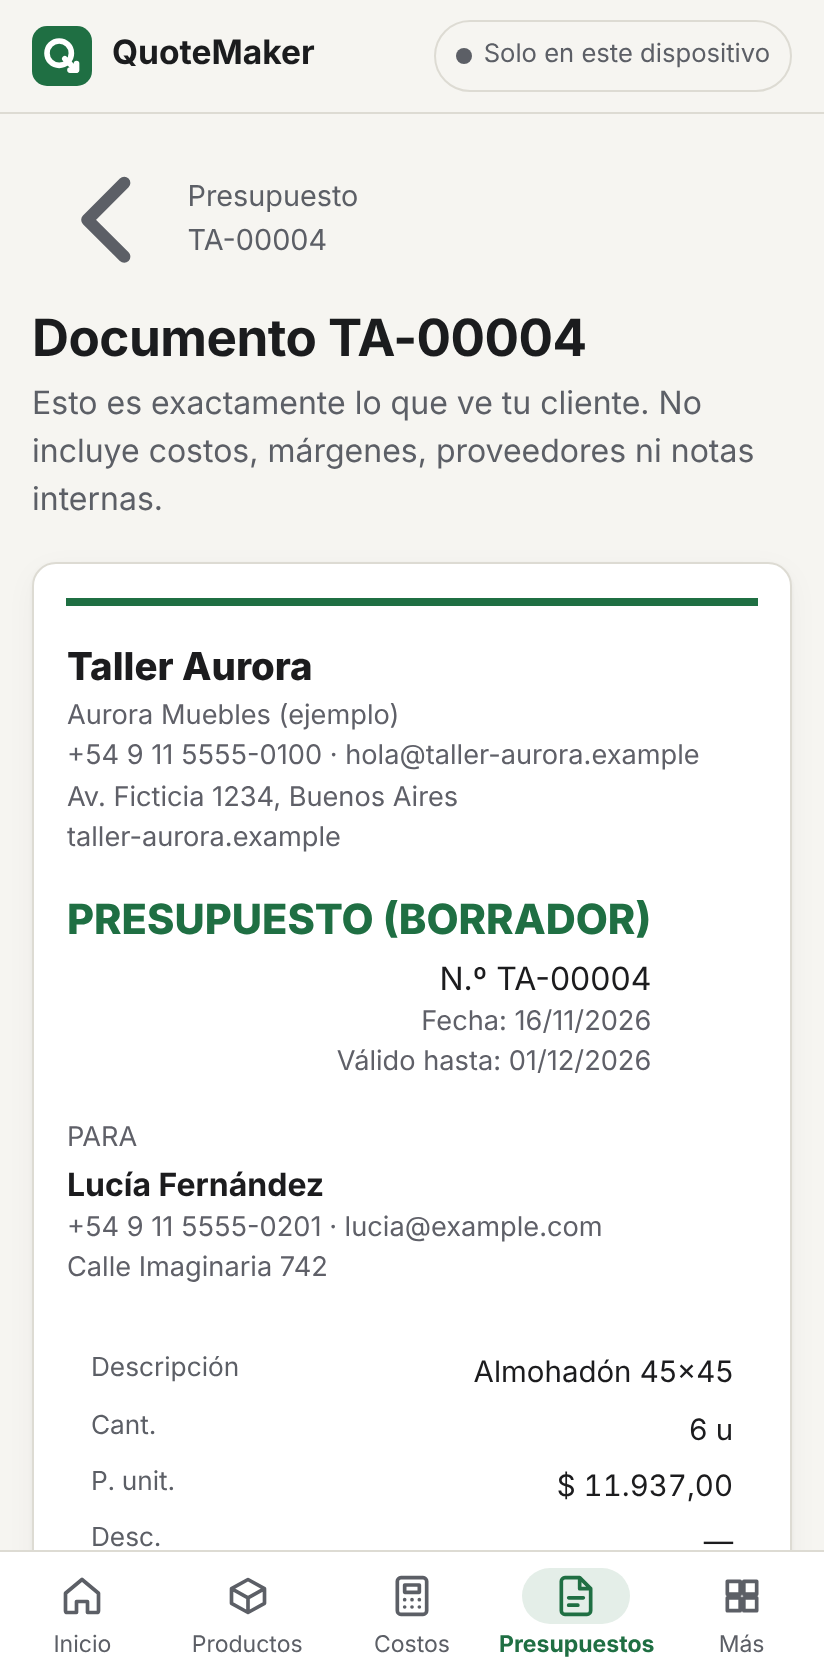
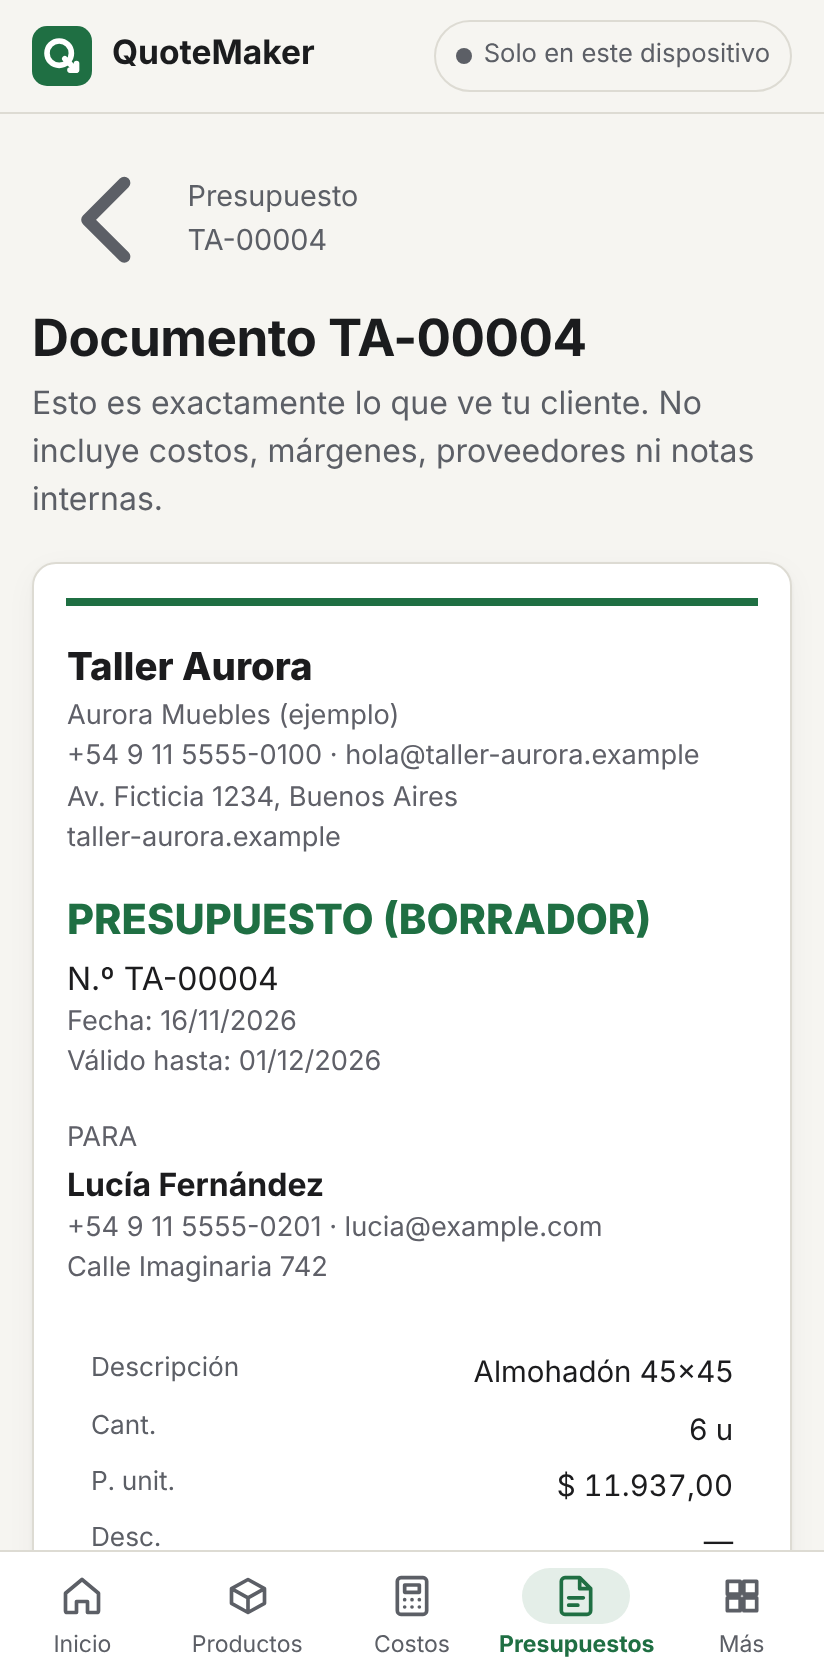
test(e2e): run the full flow on Firefox, WebKit (Safari) and iPhone in CI; Android evidence in docs
- Document header aligns left on narrow screens
- Android smoke waits for demo data and for the share sheet to render
- README shows real Android screenshots; measured APK size documented

Claude-Session: https://claude.ai/code/session_01N4uS5RDYMaoioPERnhwfQF

Changed region(s): [[0.091, 0.5578, 0.4854, 0.6508], [0.5158, 0.5578, 0.7888, 0.6508]]

diff --git a/playwright.config.ts b/playwright.config.ts
@@ -1,7 +1,7 @@
 import { defineConfig, devices } from '@playwright/test';
 
 // Pruebas e2e sobre el build de producción (npm run build) servido con `vite preview`.
-// Sólo Chromium está disponible en este entorno; Firefox/WebKit se documentan como pendientes.
+// Localmente: Chromium (escritorio y móvil). En CI además Firefox, WebKit (Safari) y iPhone emulado.
 export default defineConfig({
   testDir: 'tests/e2e',
   timeout: 60_000,
@@ -14,5 +14,13 @@ export default defineConfig({
   projects: [
     { name: 'desktop', use: { ...devices['Desktop Chrome'], viewport: { width: 1366, height: 860 } } },
     { name: 'mobile', use: { ...devices['Pixel 7'] } },
+    // Otros motores (Firefox y WebKit/Safari): flujo funcional completo. Se activan en CI (QM_ALL_BROWSERS=1).
+    ...(process.env.QM_ALL_BROWSERS
+      ? [
+          { name: 'firefox', testMatch: /main-flow\.spec\.ts/, use: { ...devices['Desktop Firefox'], viewport: { width: 1366, height: 860 } } },
+          { name: 'webkit', testMatch: /main-flow\.spec\.ts/, use: { ...devices['Desktop Safari'], viewport: { width: 1366, height: 860 } } },
+          { name: 'iphone', testMatch: /main-flow\.spec\.ts/, use: { ...devices['iPhone 14'] } },
+        ]
+      : []),
   ],
 });

diff --git a/src/ui/pages/QuoteDocument.tsx b/src/ui/pages/QuoteDocument.tsx
@@ -30,14 +30,14 @@ export function DocumentPreview({ doc, accent }: { doc: PublicQuoteDocument; acc
               </p>
             ))}
         </div>
-        <div>
+        <div className="doc-meta">
           <p className="doc-title">{doc.isDraft ? 'PRESUPUESTO (BORRADOR)' : 'PRESUPUESTO'}</p>
-          <p style={{ textAlign: 'right' }}>N.º {doc.number}</p>
-          <p className="doc-muted" style={{ textAlign: 'right' }}>
+          <p>N.º {doc.number}</p>
+          <p className="doc-muted">
             Fecha: {formatDate(doc.issueDate, doc.locale)}
           </p>
           {doc.validUntil && (
-            <p className="doc-muted" style={{ textAlign: 'right' }}>
+            <p className="doc-muted">
               Válido hasta: {formatDate(doc.validUntil, doc.locale)}
             </p>
           )}

diff --git a/src/ui/styles.css b/src/ui/styles.css
@@ -1092,7 +1092,11 @@ dialog::backdrop {
   color: var(--doc-accent, #1f6f43);
   font-weight: 800;
   font-size: 1.3rem;
-  text-align: right;
+}
+@media (min-width: 560px) {
+  .doc-preview .doc-meta {
+    text-align: right;
+  }
 }
 .doc-preview .doc-muted {
   color: #5f6068;

diff --git a/docs/ROADMAP.md b/docs/ROADMAP.md
@@ -21,7 +21,7 @@ Leyenda: ✅ implementado y probado · 🟡 implementado, verificación parcial 
 | Personalización con vista previa y contraste | ✅ | e2e |
 | Estadísticas | ✅ | e2e (accesibilidad/render); cálculos vía funciones probadas |
 | APK Android (compila, lint, pruebas JVM) | ✅ | GitHub Actions |
-| App Android en emulador (abre, datos de ejemplo, navegación, persistencia tras reinicio) | ✅ / 🟡 | CI «Android · prueba en emulador»; ver la última ejecución |
+| App Android en emulador API 34: abre en el WebView con Capacitor nativo, carga datos, 8 pantallas sin scroll horizontal, PDF generado en el dispositivo sin filtraciones y entregado al Sharesheet nativo, estado y datos persisten tras `force-stop` y reapertura | ✅ | CI «Android · prueba en emulador» + capturas en `docs/media/android/` |
 | Migración Supabase + RLS + motor de sync | 🟡 | Probado contra **PostgreSQL 16 real** (2 usuarios, anónimo, idempotencia, conflictos, 2 dispositivos). **No probado contra un proyecto Supabase real.** |
 | Login Supabase (Auth) | ⏳ | Implementado con supabase-js; sin proyecto no se pudo probar |
 | Compatibilidad Firefox / Safari / Edge | ⏳ | Sólo Chromium disponible en el entorno (Edge usa el mismo motor, pero no se probó) |

diff --git a/README.md b/README.md
@@ -25,6 +25,12 @@ QuoteMaker es una herramienta **privada** para emprendedores que venden producto
 
 ![Crear un presupuesto (GIF real de la app)](docs/media/gifs/05-crear-presupuesto.gif)
 
+**Android** (capturas reales del emulador API 34 en CI):
+
+| Productos | Presupuesto | Documento | Tema oscuro |
+|---|---|---|---|
+| ![Productos en Android](docs/media/android/android-03-productos.png) | ![Presupuesto en Android](docs/media/android/android-11-presupuesto.png) | ![Documento en Android](docs/media/android/android-12-documento.png) | ![Personalización oscura en Android](docs/media/android/android-14-personalizacion-oscuro.png) |
+
 ## Qué hace
 
 - **Productos y proveedores**: catálogo con SKU, categorías, unidad, imagen optimizada, proveedor habitual, estado activo/archivado, historial de costos.

diff --git a/docs/media/README.md b/docs/media/README.md
@@ -23,3 +23,5 @@ Todas son **capturas reales** de la app en ejecución (build de producción) con
 | 13-personalizacion-vista-previa / 14-inicio-oscuro-terracota | Editor de tema y resultado |
 
 GIFs: `01-navegacion`, `02-crear-producto`, `03-cargar-gasto`, `04-calcular-precio`, `05-crear-presupuesto`, `06-personalizar-tema`.
+
+Android (`android/`): inicio, productos, compras, gastos, calculadora, presupuestos, clientes, estadísticas, menú Más, editor y documento de presupuesto, selector nativo para compartir el PDF, tema oscuro y presupuestos tras reiniciar la app. `android-presupuesto.pdf` es el PDF generado en el dispositivo.

diff --git a/docs/PERFORMANCE.md b/docs/PERFORMANCE.md
@@ -47,7 +47,7 @@ Las pruebas fallan si hay una regresión grave (límites de 1 a 5 s).
 
 | Métrica | Valor | Fuente |
 |---|---|---|
-| APK debug | ≈ 4,4 MB (artefacto comprimido de CI: 4.429.094 bytes) | GitHub Actions, job «Android · APK» |
+| APK debug | **4.795.186 bytes (4,6 MB)** | `docs/media/android/package-info.txt` (CI) |
 | Arranque en frío (emulador API 34, x86_64, CI) | `TotalTime: 5733 ms` (`am start -W`) | Log del job «Android · prueba en emulador» |
 
 El arranque en el emulador de CI (sin aceleración de GPU) es más lento que en un teléfono real; no se midió en un dispositivo físico.
